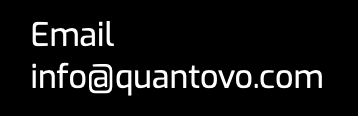
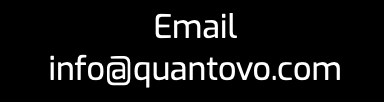
fix footer

Changed region(s): [[0.0922, 0.5294, 0.9218, 0.8824], [0.3994, 0.1176, 0.6145, 0.3824], [0.0922, 0.1765, 0.338, 0.4118]]

diff --git a/app/components/About/AboutStyled.js b/app/components/About/AboutStyled.js
@@ -4,92 +4,85 @@ export const AboutContainer = styled.div`
     display: flex;
     flex-wrap: wrap;
     justify-content: center;
-    align-items: flex-start;
+    align-items: center;
     background-color: #fff;
     height: 100vh;
-        .mainQlogo {
-            width: 50%;
-            max-width: 100%;
-            height: auto;
-            object-fit: contain;
-            flex: 1 1 600px;
+    padding: 0 2rem;
+        .about-img {
+            display: flex;
+            flex: 1 1 400px;
+            justify-content: center;
+            align-items: center;
+            .mainQlogo {
+                width: 100%;
+                max-width: 100%;
+                height: auto;
+                object-fit: contain;
+            }
         }
         .about-container {
             display: flex;
-            flex: 1 1 600px;
             justify-content: center;
             align-items: center;
+            flex: 1 1 400px;
             flex-direction: row;
-            .about-text {
-                margin-top: 12rem;
-                text-align: left;
-                max-width: 500px;
-                span {
-                    color: #cdd500;
-                    font-size: 1rem;
-                    text-transform: uppercase;
-                    font-weight: 700;
+                .about-text {
+                    text-align: left;
+                    max-width: 500px;
+                    span {
+                        color: #cdd500;
+                        font-size: 1rem;
+                        text-transform: uppercase;
+                        font-weight: 700;
+                    }
+                    h1 {
+                        color: #000;
+                        font-size: 3rem;
+                        margin: 1rem 0;
+                    }
+                    p {
+                        color: #000;
+                        font-size: 1rem;
+                        margin: 1rem 0;
+                        line-height: 1.5;
+                        text-align: justify;
+                    }
                 }
-                h1 {
-                    color: #000;
-                    font-size: 3rem;
-                    margin: 1rem 0;
-                }
-                p {
-                    color: #000;
-                    font-size: 1rem;
-                    margin: 1rem 0;
-                    line-height: 1.5;
-                    text-align: justify;
-                }
-            }
-        .linesPatern {
-            width: 50%;
-            max-width: 100%;
-            height: auto;
-            object-fit: contain;
-            align-self: flex-start;
-            margin-top: -12rem;
-            margin-right: -5rem;
-        }
     }
 
     @media (max-width: 1400px) {
         justify-content: center;
         align-items: center;
         height: auto;
-        .mainQlogo {
-            width: 100%;
-            max-width: 500px;
-            height: auto;
-            object-fit: contain;    
-        }
-        .about-container {
-            max-width: 400px;
-            .about-text {
-                text-align: left;
-                margin-top: 6rem;
-                margin-bottom: 10rem;
-                span {
-                    font-size: 1rem;
+            .mainQlogo {
+                width: 100%;
+                max-width: 400px;
+                height: auto;
+                object-fit: contain;    
+            }
+            .about-container {
+                max-width: 70%;
+                .about-text {
+                    text-align: left;
+                    margin-top: 6rem;
+                    margin-bottom: 10rem;
+                        span {
+                            font-size: 1rem;
+                        }
+                        h1 {
+                            font-size: 2rem;
+                        }
+                        p {
+                            font-size: 1rem;
+                        }
                 }
-                h1 {
-                    font-size: 2rem;
-                }
-                p {
-                    font-size: 1rem;
+                .linesPatern {
+                    display: none;
                 }
             }
-            .linesPatern {
-                display: none;
-            }
-        }
     }
     @media screen and (max-width: 768px) {
         height: auto;
-        .mainQlogo {
-            max-width: 400px;
-        }
         .about-container {
             max-width: 400px;
             margin-bottom: 2rem;
@@ -106,9 +99,9 @@ export const AboutContainer = styled.div`
     }
     @media screen and (max-width: 460px) {
         height: auto;
-        .mainQlogo {
-            max-width: 300px;
-        }
+            .mainQlogo {
+                max-width: 300px;
+            }
         .about-container {
             max-width: 300px;
             padding: 1rem;

diff --git a/app/components/About/About.jsx b/app/components/About/About.jsx
@@ -3,20 +3,21 @@ import './AboutStyled'
 import { AboutContainer } from './AboutStyled'
 import Image from 'next/image';
 import mainQ from '../../images/mainq.png'
-import linesv from '../../images/linesv.png'
+
 
 export const About = () => {
   return (
     <AboutContainer>
+      <div className='about-img'>
         <Image src={mainQ} alt="mainQlogo" className="mainQlogo" />
-        <div className='about-container'>
-            <div className="about-text">
-                <span>company</span>
-                <h1>About us</h1>
-                <p>At Quantovo we build software solutions for financial traders around the globe. Our team uses the latest research, technologies, and tools to help brokers, traders, and entrepreneurs alike achieve better results faster and with higher ROI.</p>
-            </div>
-            <Image src={linesv} alt="lines" className="linesPatern" />
-        </div>
+      </div> 
+      <div className='about-container'>
+          <div className="about-text">
+              <span>company</span>
+              <h1>About us</h1>
+              <p>At Quantovo we build software solutions for financial traders around the globe. Our team uses the latest research, technologies, and tools to help brokers, traders, and entrepreneurs alike achieve better results faster and with higher ROI.</p>
+          </div> 
+      </div>
     </AboutContainer>
   )
 }

diff --git a/app/components/Footer/FooterStyled.js b/app/components/Footer/FooterStyled.js
@@ -14,8 +14,8 @@ export const FooterContainer = styled.footer`
             display: flex;
             align-items: center;
                 .footer__img {
-                    width: 50px;
-                    height: 50px;
+                    width: 60px;
+                    height: 60px;
                 }
                 .footer__title {
                     font-size: 1.5rem;
@@ -23,10 +23,12 @@ export const FooterContainer = styled.footer`
                 }
         }
         .footer__text {
-            color: #fff;
+            color: #777;
+            font-size: 0.8rem;
+            text-align: center;
         }
         .footer__logo-email {
-            
+           
                 .footer__img-email {
                     width: 180px;
                     height: auto;
@@ -35,6 +37,7 @@ export const FooterContainer = styled.footer`
     @media screen and (max-width: 1200px) {
         flex-direction: column;
             .footer__logo {
+            
                 margin-bottom: 1rem;
             }
             .footer__text {

diff --git a/app/components/Main/MainStyled.js b/app/components/Main/MainStyled.js
@@ -9,6 +9,7 @@ export const MainContainer = styled.div`
     height: 100vh;
     padding: 2rem;
         .main-title {
+            width: 70%;
             padding: 5rem;
             color: #fff;
             font-size: 6rem;
@@ -35,10 +36,11 @@ export const MainContainer = styled.div`
 @media (max-width: 768px) {
     height: auto;
         .main-title {
+            width: 100%;
             font-size: 3.5rem;
         }
 }
-@media screen and (max-width: 400px){
+@media screen and (max-width: 500px){
     padding: 0;
     height: auto;
         .main-title {

diff --git a/app/components/Footer/Footer.tsx b/app/components/Footer/Footer.tsx
@@ -22,6 +22,8 @@ export const Footer = () => {
         <p>House, 3087, Limassol, Cyprus</p>
       </div>
       <div className='footer__logo-email'>
+        {/* <p>Email</p>
+        <p>info@quantovo.com</p> */}
         <Image src={email} alt='logo' className='footer__img-email' />
       </div>
      </FooterContainer>
